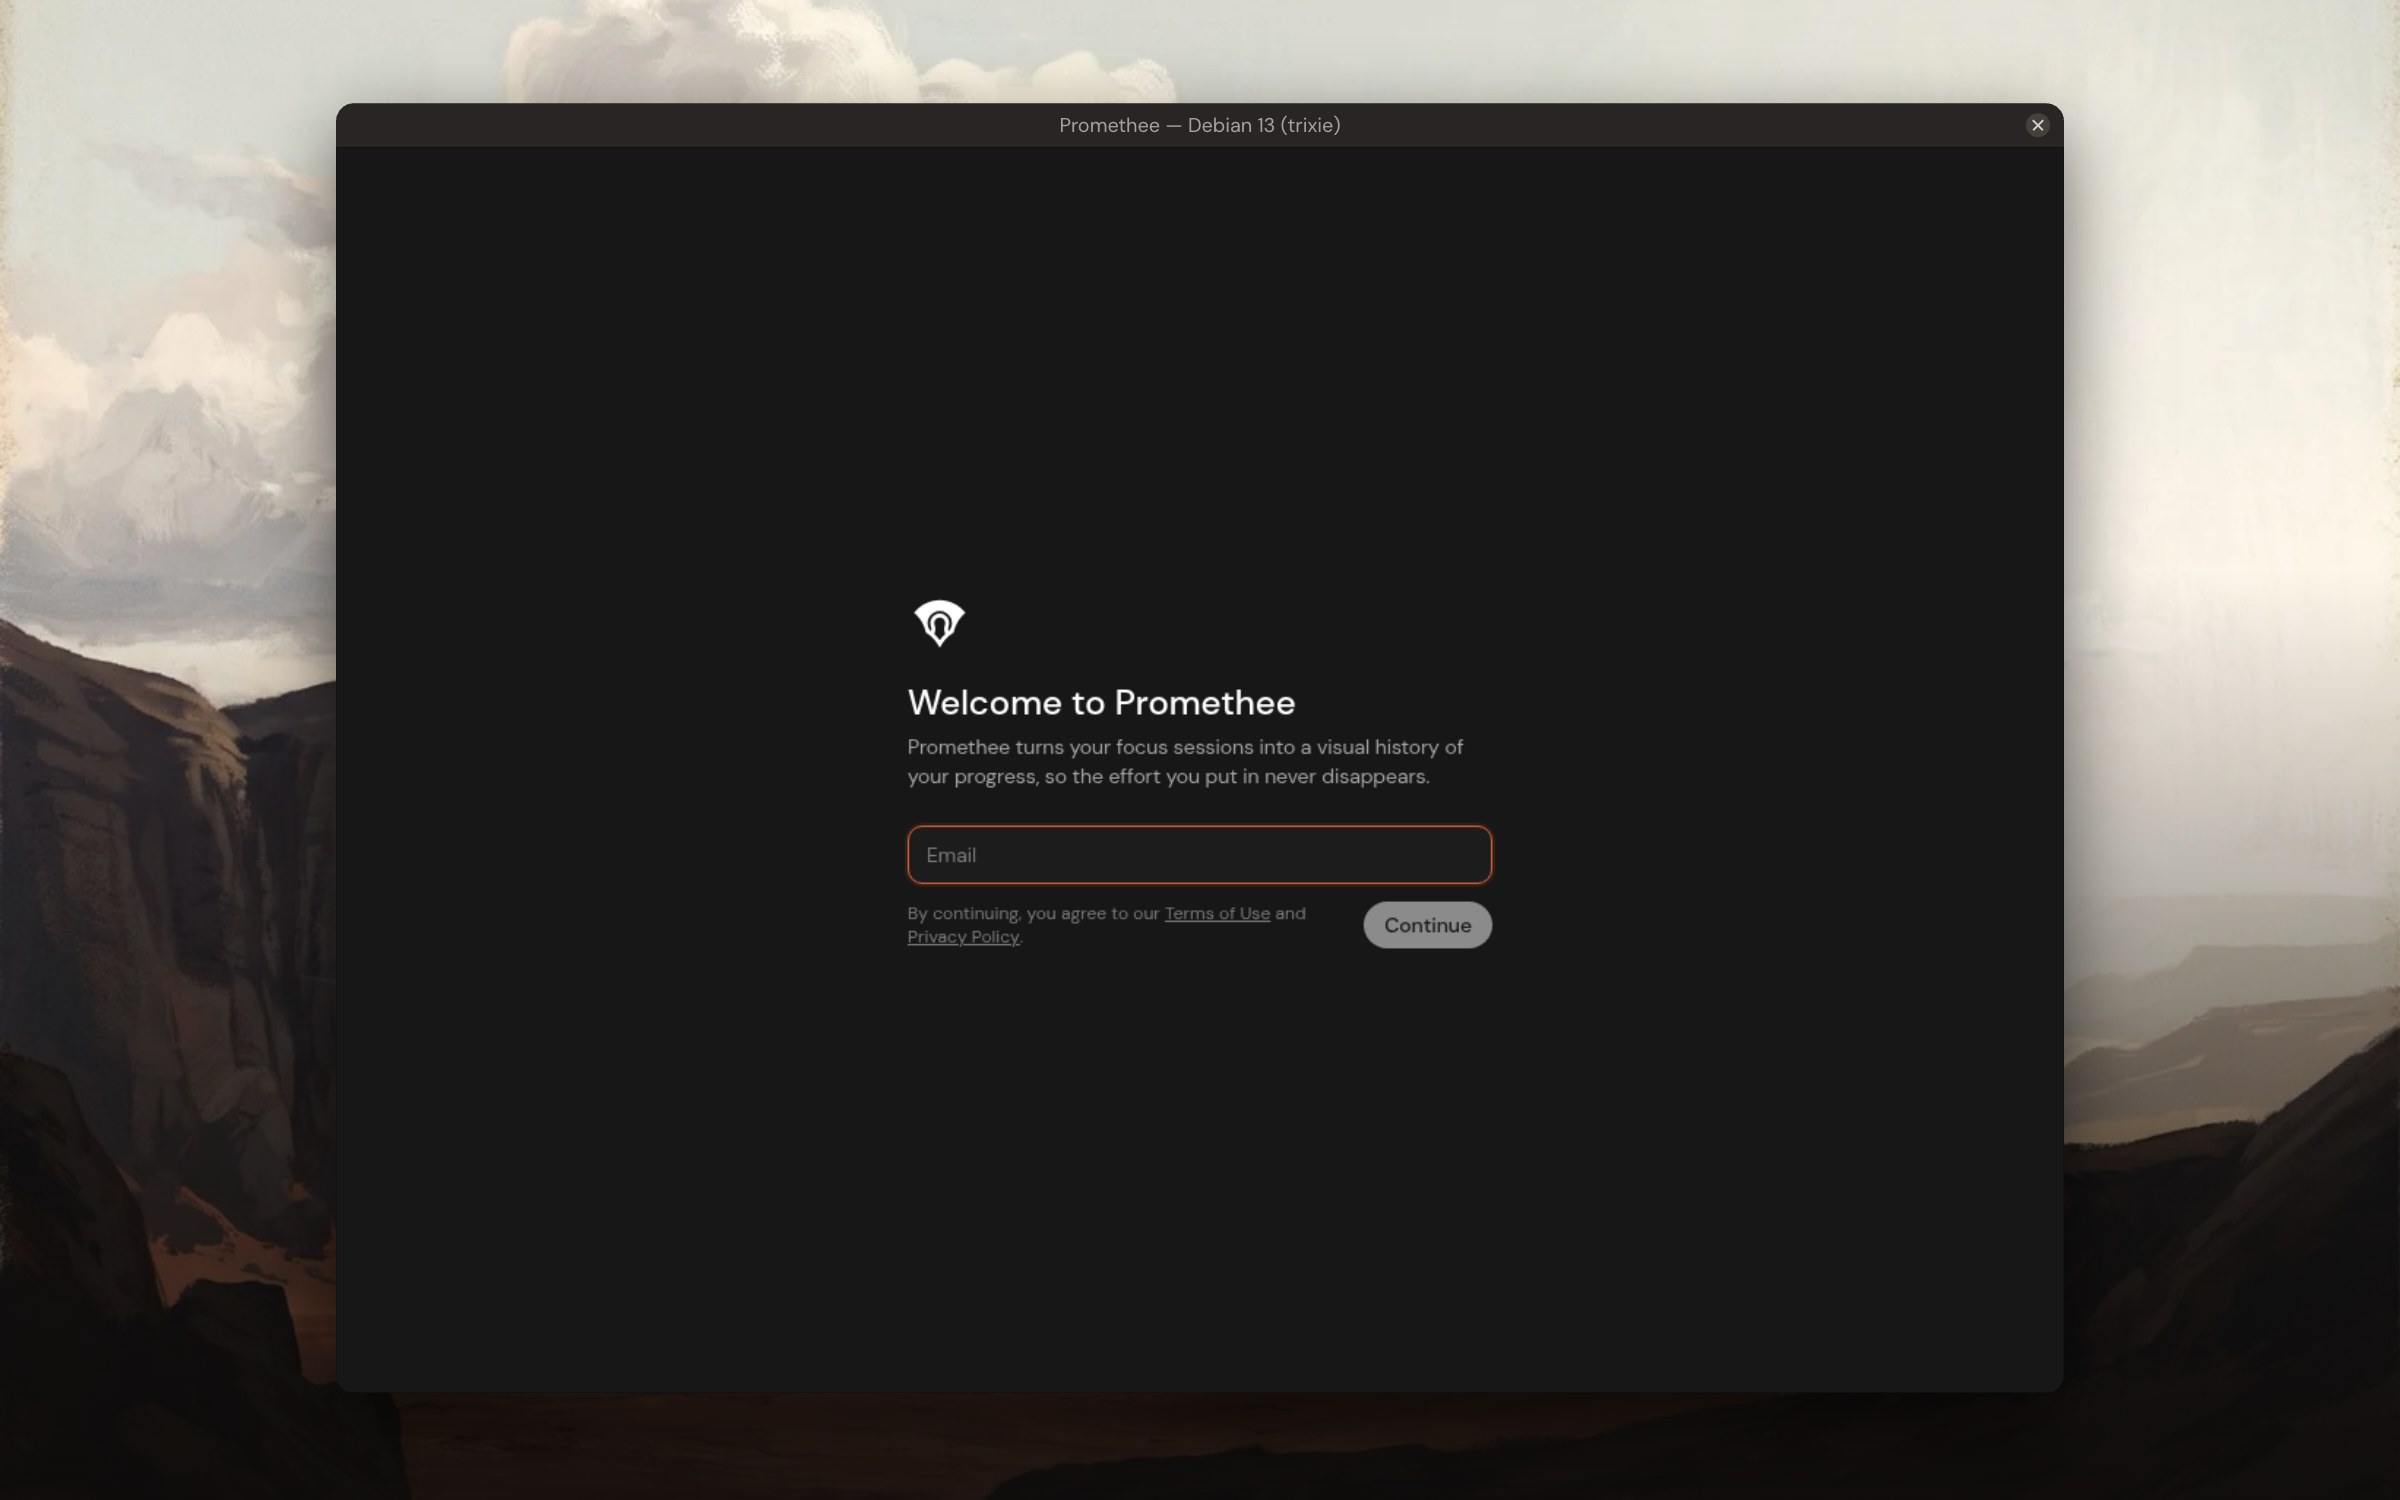
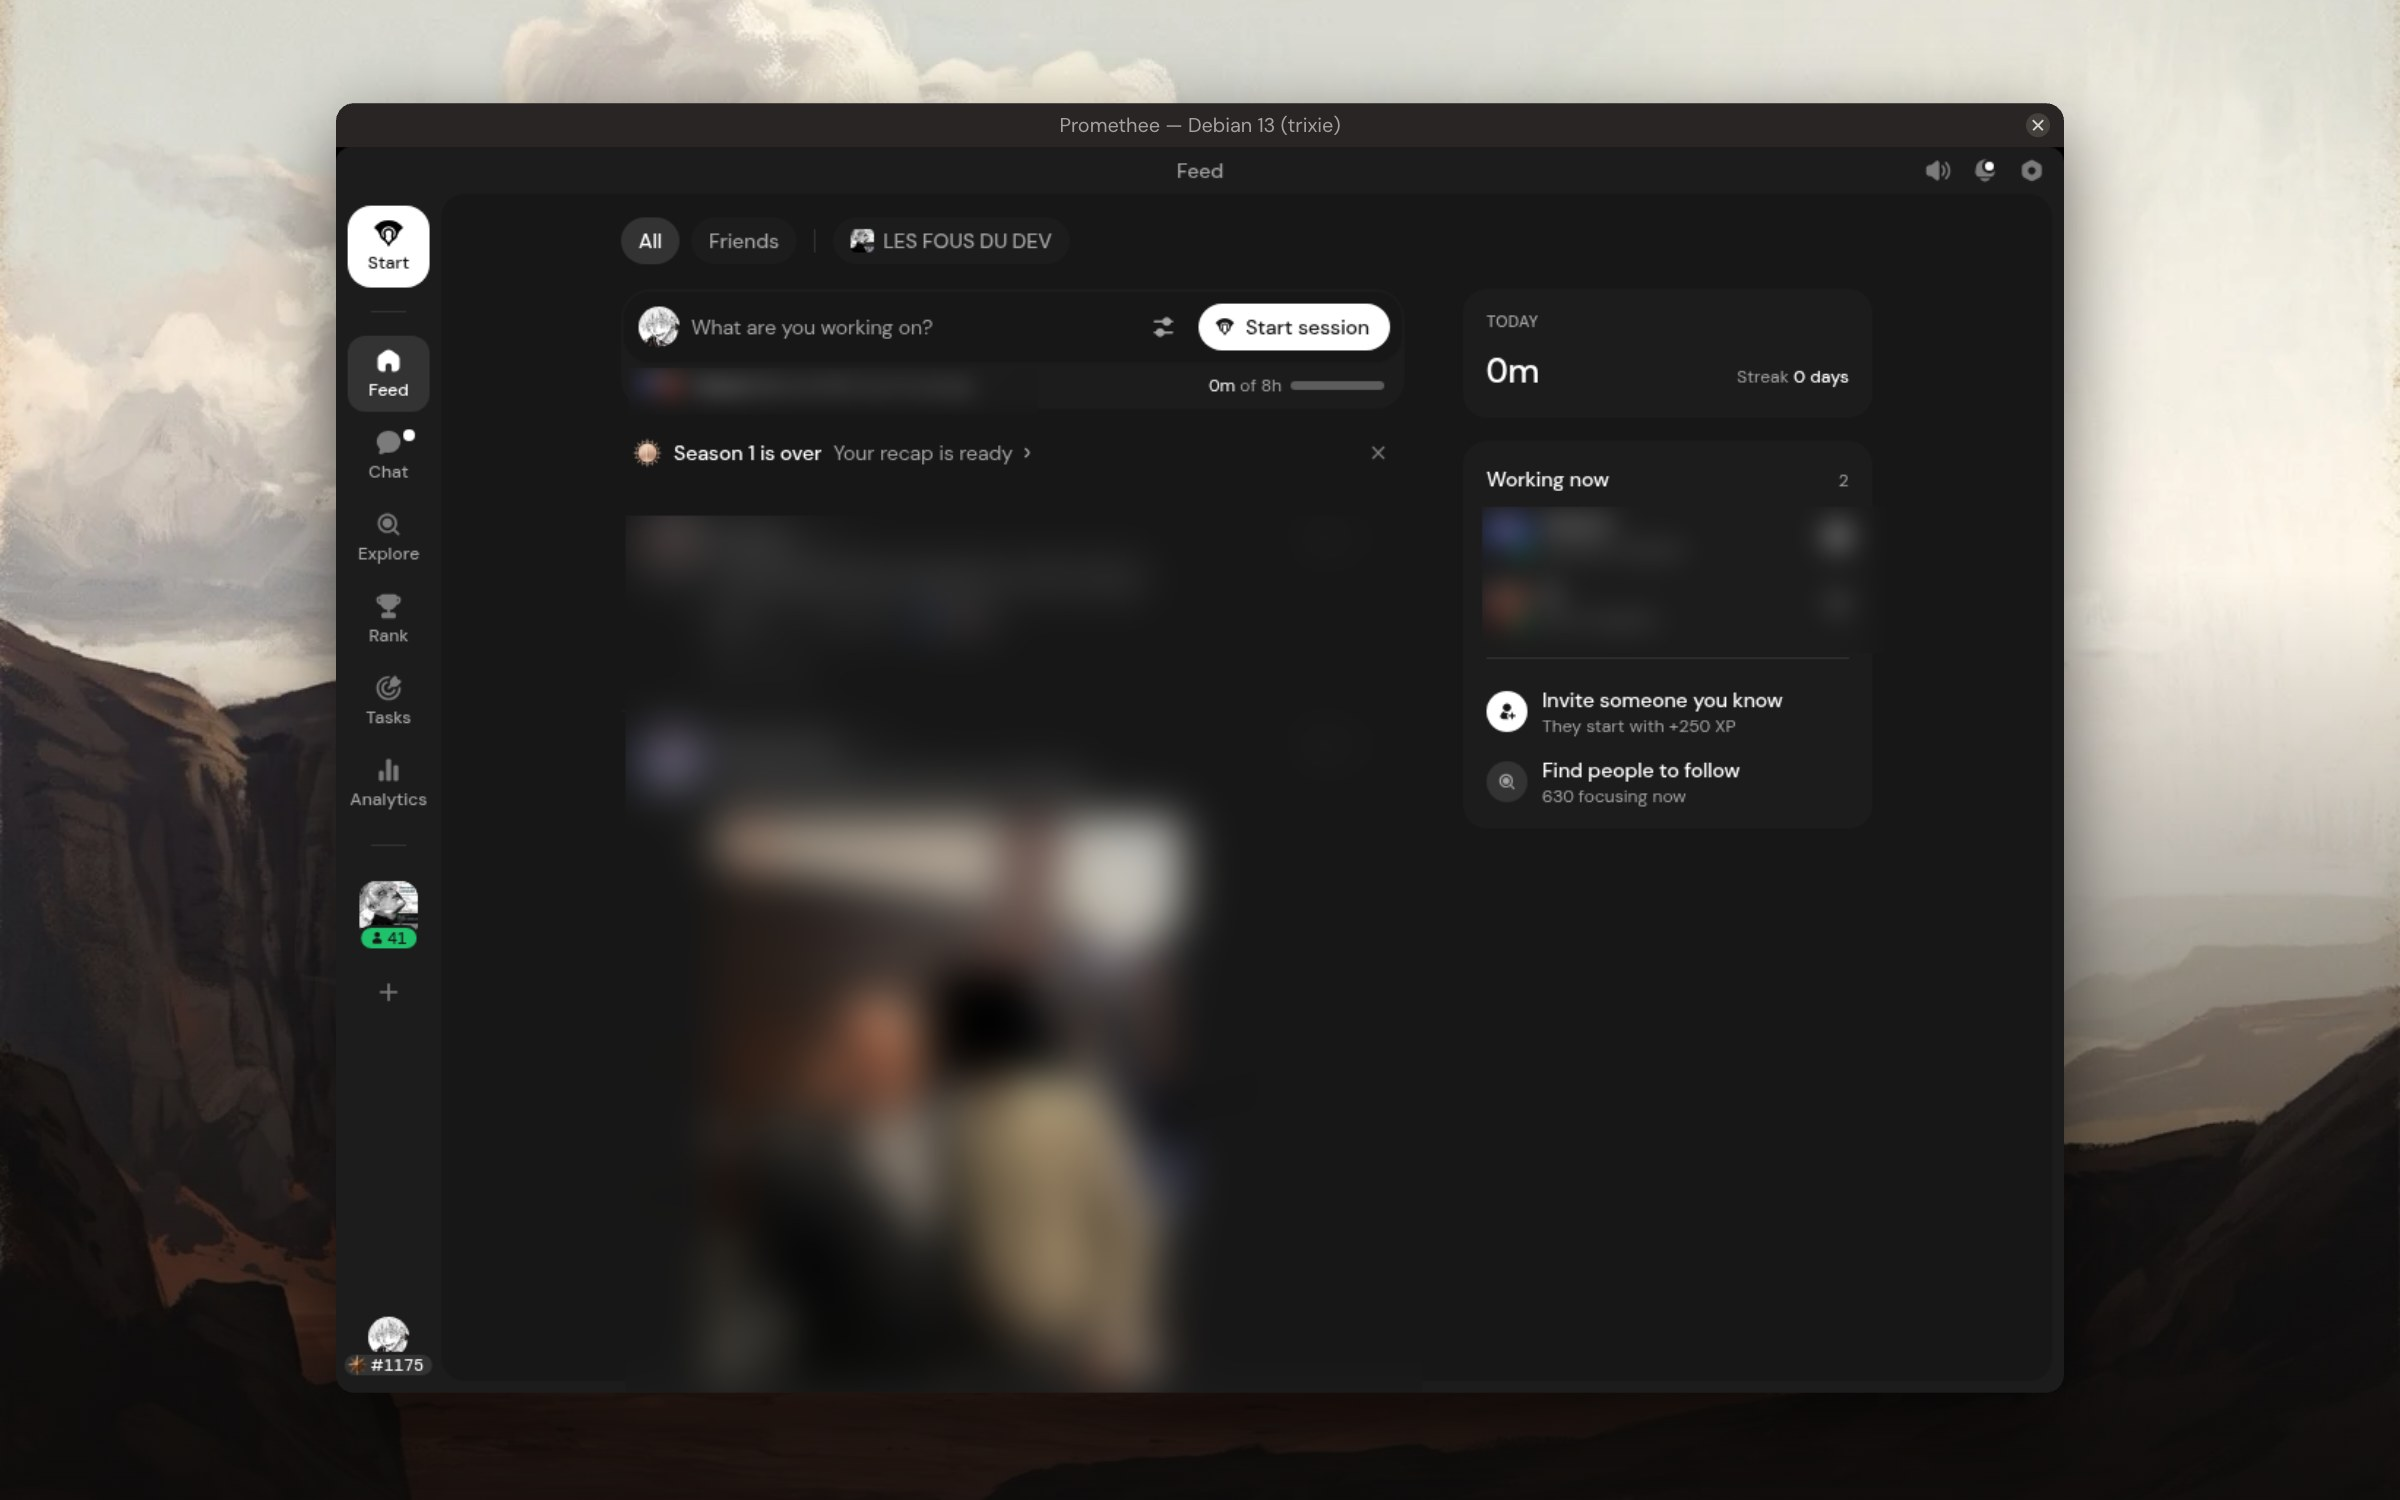
README: screenshots of a real signed-in account on Linux, tested feature list

diff --git a/README.md b/README.md
@@ -52,8 +52,29 @@ Promethee turns your focus sessions into a visual history of your progress. It s
 and Linux users have been left at the door. Not anymore.
 
 <p align="center">
-  <img alt="Promethee running on Debian 13" src=".github/assets/screenshot.jpg" width="100%">
+  <img alt="Promethee signed in on Debian 13, showing the feed" src=".github/assets/screenshot.jpg" width="100%">
 </p>
+
+<table>
+  <tr>
+    <td width="33%" valign="top">
+      <img alt="Explore tab on Linux" src=".github/assets/app-explore.jpg"><br />
+      <strong>🔎 Explore</strong><br />
+      <sub>Guilds, people and the apps the community focuses with</sub>
+    </td>
+    <td width="33%" valign="top">
+      <img alt="Leaderboard on Linux" src=".github/assets/app-rank.jpg"><br />
+      <strong>🏆 Rank</strong><br />
+      <sub>Live season leaderboard and your league</sub>
+    </td>
+    <td width="33%" valign="top">
+      <img alt="Analytics tab on Linux" src=".github/assets/app-analytics.jpg"><br />
+      <strong>📊 Analytics</strong><br />
+      <sub>Your week, your goals, your streak</sub>
+    </td>
+  </tr>
+</table>
+<p align="center"><sub>A real account, signed in on Debian 13. Other members' names and posts are blurred.</sub></p>
 
 ## ⚡ Quick start
 
@@ -101,7 +122,11 @@ Nothing from Promethee lives in this repo: everything is downloaded from Prometh
 
 | Feature | Status |
 |---|---|
-| Login, focus sessions, sync, leaderboards | ✅ |
+| Sign in with email code, session kept after a restart | ✅ |
+| Feed, Explore, Rank, Tasks, Analytics | ✅ live data from your account |
+| Direct messages (realtime) | ✅ |
+| Guild chat rooms | ⚠ list loads, live updates stuck on "Reconnecting…" ([help us check](../../issues)) |
+| Starting a focus session | ❔ not tested yet |
 | Local database (SQLite, encrypted) | ✅ recompiled for Linux |
 | Active window tracking & app blocker | ⚠ X11 only (via `xprop`), not Wayland yet |
 | macOS vibrancy, Windows virtual desktops | ➖ not applicable |
